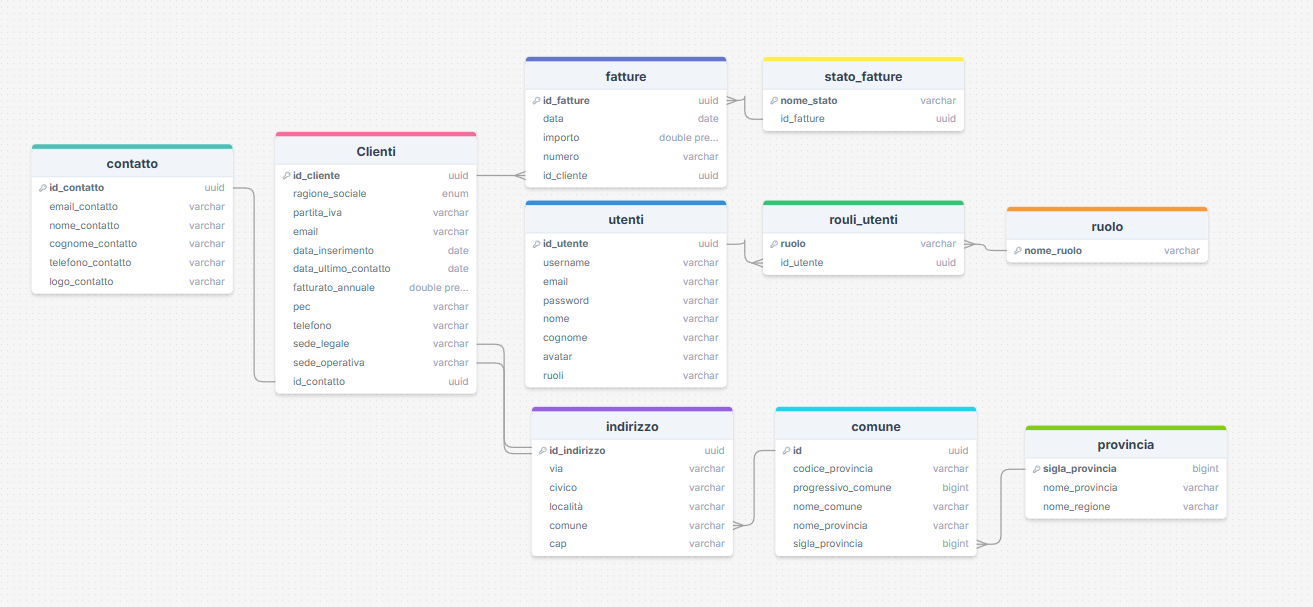
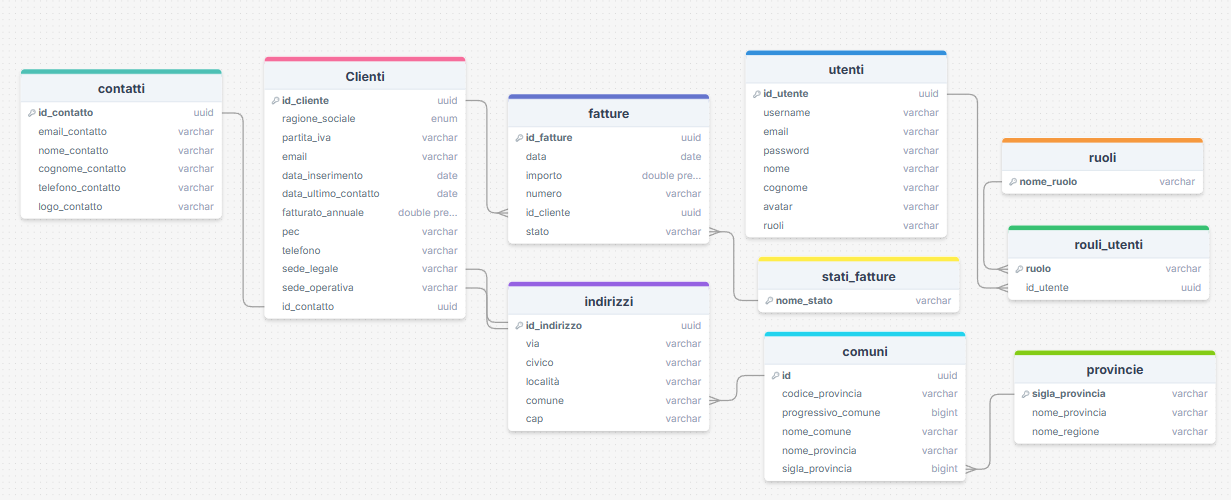
SCREEN AGGIORNATI E DTO UTENTE, RUOLI E RUOLI-UTENTE AGGIUNTI

diff --git a/src/main/java/team2/BUILDWEEK_5/payloads/UtenteDTO.java b/src/main/java/team2/BUILDWEEK_5/payloads/UtenteDTO.java
@@ -1,4 +1,25 @@
 package team2.BUILDWEEK_5.payloads;
 
-public class UtenteDTO {
+import jakarta.validation.constraints.Email;
+import jakarta.validation.constraints.NotBlank;
+import jakarta.validation.constraints.Pattern;
+import jakarta.validation.constraints.Size;
+
+public record UtenteDTO(
+        @NotBlank(message = "Il nome deve essere inserito")
+        @Size(min = 3, max = 30, message = "Il nome deve essere compreso tra 3 e 30 caratteri")
+        String nome,
+
+        @NotBlank(message = "Il cognome deve essere inserito")
+        @Size(min = 3, max = 30, message = "Il cognome deve essere compreso tra 3 e 30 caratteri")
+        String cognome,
+
+        @NotBlank(message = "L'email deve essere inserita")
+        @Email(message = "Indirizzo email non valido")
+        String email,
+
+        @NotBlank(message = "La password deve essere inserita")
+        @Pattern(regexp = "^(?=.[A-Z])(?=)(?=.[@$!%?&]).{8,}$", message = "La password deve contenere almeno una maiuscola,un numero,un carattere speciale,e deve essere lunga almeno 8 caratteri!")
+        String password
+) {
 }

diff --git a/src/main/java/team2/BUILDWEEK_5/entities/Utente.java b/src/main/java/team2/BUILDWEEK_5/entities/Utente.java
@@ -37,16 +37,11 @@ public class Utente {
     @Column(nullable = false)
     private String avatar;
 
-    @Column(nullable = false)
-    @Enumerated(EnumType.STRING)
-    private Ruolo ruolo;
-
     public Utente(String nome, String cognome, String email, String password) {
         this.nome = nome;
         this.cognome = cognome;
         this.email = email;
         this.password = password;
         this.avatar = "https://ui-avatars.com/api/?name=" + nome + "+" + cognome;
-        this.ruolo = Ruolo.UTENTE;
     }
 }

diff --git a/src/main/java/team2/BUILDWEEK_5/entities/RuoloUtente.java b/src/main/java/team2/BUILDWEEK_5/entities/RuoloUtente.java
@@ -1,0 +1,21 @@
+package team2.BUILDWEEK_5.entities;
+
+import jakarta.persistence.*;
+
+import java.util.UUID;
+
+@Entity
+@Table(name = "ruoli_utenti")
+public class RuoloUtente {
+    @Id
+    @GeneratedValue
+    private UUID idRuoloUtente;
+
+    @ManyToOne
+    @JoinColumn(name = "utente_id", nullable = false)
+    private Utente utente;
+
+    @ManyToOne
+    @JoinColumn(name = "ruolo_id", nullable = false)
+    private Ruolo ruolo;
+}

diff --git a/src/main/java/team2/BUILDWEEK_5/entities/Ruolo.java b/src/main/java/team2/BUILDWEEK_5/entities/Ruolo.java
@@ -1,5 +1,18 @@
 package team2.BUILDWEEK_5.entities;
 
-public enum Ruolo {
-    UTENTE, ADMIN
+import jakarta.persistence.Entity;
+import jakarta.persistence.Id;
+import jakarta.persistence.Table;
+import lombok.AllArgsConstructor;
+import lombok.Getter;
+import lombok.NoArgsConstructor;
+
+@Entity
+@Table(name = "ruoli")
+@NoArgsConstructor
+@AllArgsConstructor
+@Getter
+public class Ruolo {
+    @Id
+    private String nomeRuolo;
 }

diff --git a/src/main/java/team2/BUILDWEEK_5/payloads/RuoloDTO.java b/src/main/java/team2/BUILDWEEK_5/payloads/RuoloDTO.java
@@ -1,0 +1,12 @@
+package team2.BUILDWEEK_5.payloads;
+
+
+import jakarta.validation.constraints.NotBlank;
+import jakarta.validation.constraints.Size;
+
+public record RuoloDTO(
+        @NotBlank(message = "Il ruolo deve essere inserito")
+        @Size(min = 3, max = 30, message = "Il ruolo deve essere compreso tra 3 e 30 caratteri")
+        String ruolo
+) {
+}

diff --git a/src/main/java/team2/BUILDWEEK_5/payloads/RuoloUtenteDTO.java b/src/main/java/team2/BUILDWEEK_5/payloads/RuoloUtenteDTO.java
@@ -1,0 +1,13 @@
+package team2.BUILDWEEK_5.payloads;
+
+import jakarta.validation.constraints.NotNull;
+
+import java.util.UUID;
+
+public record RuoloUtenteDTO(
+        @NotNull(message = "L'id utente deve essere inserito")
+        UUID idUtente,
+        @NotNull(message = "L'id ruolo deve essere inserito")
+        UUID idRuolo
+) {
+}
